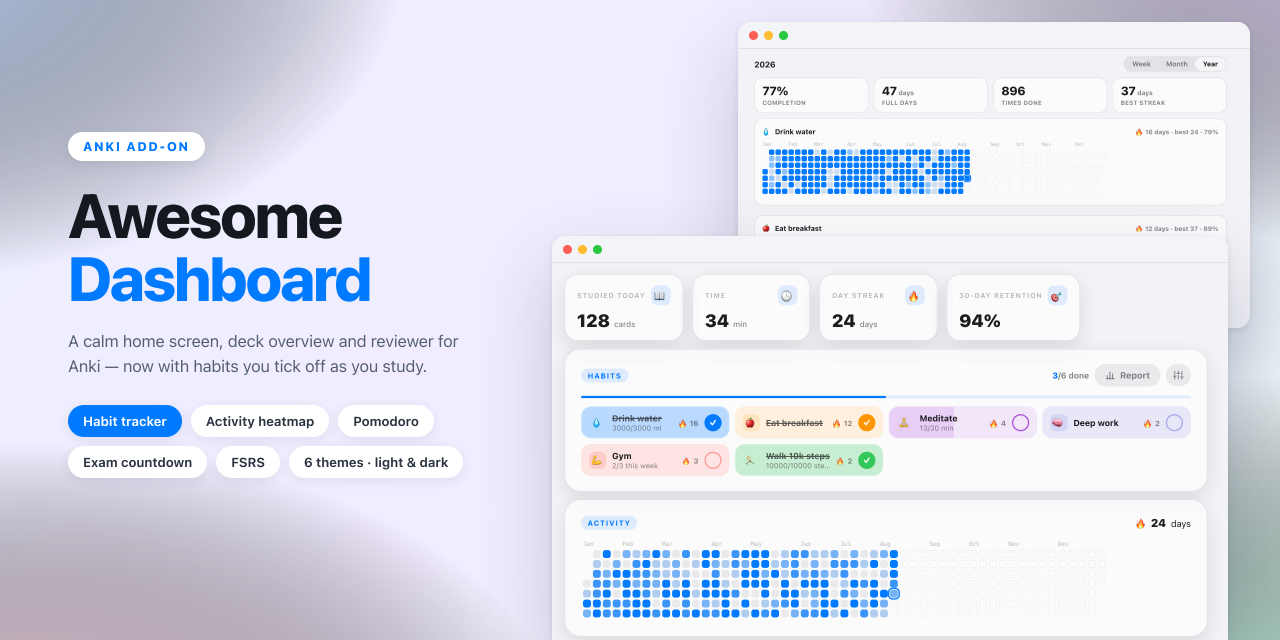
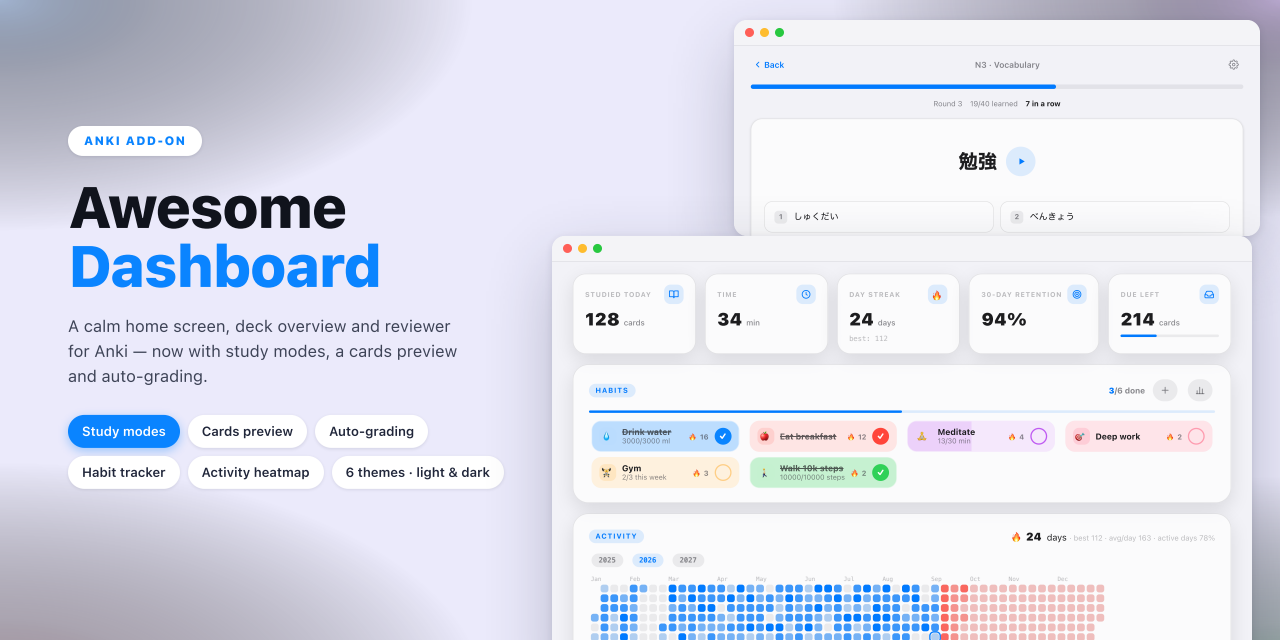
chore(release): 1.6.0

diff --git a/docs/ankiweb-description.html b/docs/ankiweb-description.html
@@ -18,9 +18,9 @@ across six colour
 themes with matching light and dark palettes, in English, Vietnamese, Brazilian
 Portuguese and Japanese.</p>
 
-<img src="https://raw.githubusercontent.com/kpdo2910/awesome-dashboard/v1.3.0/docs/images/feature-en.png" width="700" alt="Awesome Dashboard screenshot">
+<img src="https://raw.githubusercontent.com/kpdo2910/awesome-dashboard/v1.6.0/docs/images/feature-en.png" width="700" alt="Awesome Dashboard screenshot">
 
-<p><b>🆕 New in 1.5.0</b> — Português (Brasil): a full Brazilian Portuguese translation contributed by robsonssantos83. The add-on follows Anki's own language, so it appears on its own for anyone already running Anki in Portuguese.</p>
+<p><b>🆕 New in 1.6.0</b> — three ways to study a deck without the review queue. <b>Study modes</b>: Flashcards, Learn, Test and Match, opened from a deck's overview and leaving your schedule alone unless you switch grading on. <b>Cards preview</b>: every card in the deck as a grid of flippable tiles, with images, audio and TeX. And <b>auto-grading</b>, which lets a countdown pick the rating from how long you took, so a review is two keys instead of four.</p>
 
 <p>Requires Anki 23.10 or newer. Developed and tested on Anki 26.08.</p>
 

diff --git a/CHANGELOG.md b/CHANGELOG.md
@@ -7,6 +7,8 @@ this project adheres to [Semantic Versioning](https://semver.org/spec/v2.0.0.htm
 
 ## [Unreleased]
 
+## [1.6.0] - 2026-09-05
+
 ### Added
 
 - **Cards preview** — every card in a deck as a grid of flippable tiles, opened
@@ -206,7 +208,8 @@ First public release. Tested on Anki 26.08.
   that also retints Anki's own screens.
 - English, Tiếng Việt and 日本語, following Anki's language by default.
 
-[Unreleased]: https://github.com/kpdo2910/awesome-dashboard/compare/v1.5.0...HEAD
+[Unreleased]: https://github.com/kpdo2910/awesome-dashboard/compare/v1.6.0...HEAD
+[1.6.0]: https://github.com/kpdo2910/awesome-dashboard/releases/tag/v1.6.0
 [1.5.0]: https://github.com/kpdo2910/awesome-dashboard/releases/tag/v1.5.0
 [1.4.0]: https://github.com/kpdo2910/awesome-dashboard/releases/tag/v1.4.0
 [1.3.0]: https://github.com/kpdo2910/awesome-dashboard/releases/tag/v1.3.0
